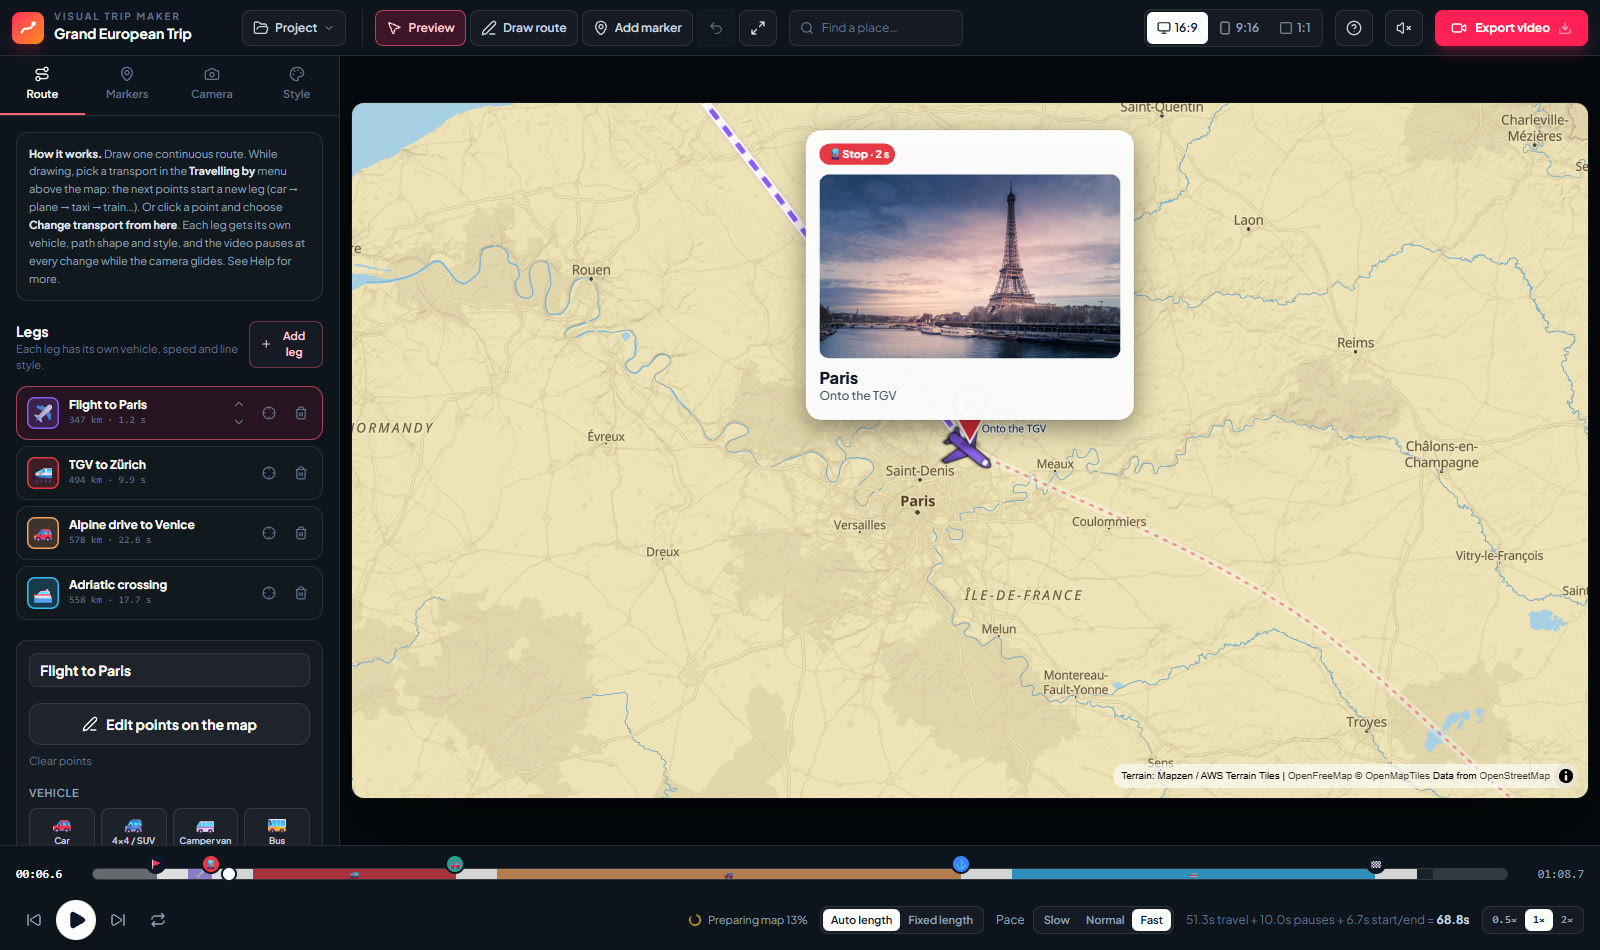
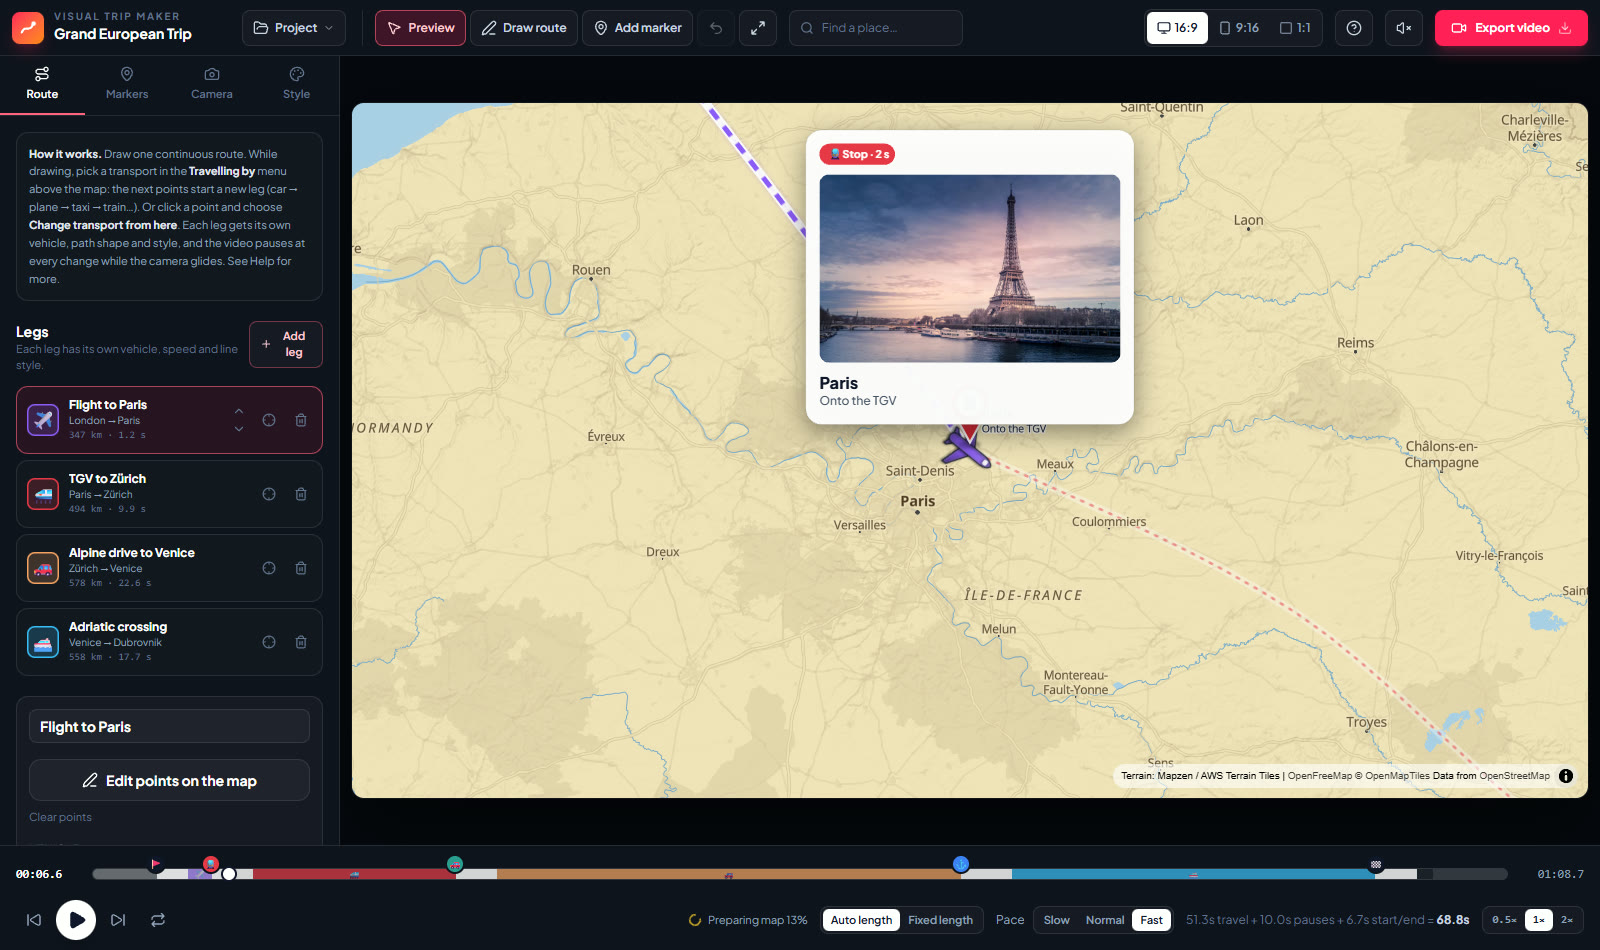
Docs: refreshed screenshots, vehicle colour screenshot

diff --git a/docs/USER_MANUAL.md b/docs/USER_MANUAL.md
@@ -113,7 +113,9 @@ At every transport change the line **pauses for a moment while the camera glides
 
 ### Edit a leg
 
-Select a leg in the Route tab to change its **Vehicle**, **Vehicle colour** (*Same as line*, a quick swatch or any colour; it paints the flat symbol and the main body of the 3D model: a car's paint, a plane's fuselage, a boat's hull, a hiker's jacket), **Path shape**, **Speed** (higher than the transport's normal speed makes the leg quicker, lower makes it slower; the leg list shows the seconds each leg takes), **Line colour**, **Width**, **Solid, dashed or dotted** style and **Glow**. Each leg in the list shows where it goes, for example *Paris → Zürich*, using the markers at its ends.
+Select a leg in the Route tab to change its **Vehicle**, **Vehicle colour** (*Same as line*, a quick swatch or any colour; it paints the flat symbol and the main body of the 3D model: a car's paint, a plane's fuselage, a boat's hull, a hiker's jacket), **Path shape**, **Speed** (higher than the transport's normal speed makes the leg quicker, lower makes it slower; the leg list shows the seconds each leg takes), **Line colour**, **Width**, **Solid, dashed or dotted** style and **Glow**. ![Leg settings with vehicle colour](screenshots/12-vehicle-colour.jpg)
+
+Each leg in the list shows where it goes, for example *Paris → Zürich*, using the markers at its ends.
 
 **Reorder the trip** with the arrows on the selected leg. Think of a leg as "travel to its destination": moving a leg changes the order in which you visit the places, and the route reconnects on the map. With stops A, B and C, moving the leg to C above the leg to B turns A → B → C into A → C → B. A leg that now starts somewhere else keeps its destination and is routed again from its new start (any extra shaping points on it are dropped). **Deleting** a leg skips that destination the same way, so the route stays connected. Dragging the point where two legs meet moves both.
 

diff --git a/README.md b/README.md
@@ -36,8 +36,8 @@ By **Geekatplay Studio** · Vladimir Chopine
 | **Map styles, terrain and symbols.** | **Vertical 9:16** for Reels, Shorts and TikTok. |
 | ![Export](docs/screenshots/08-export.jpg) | ![Flight arc](docs/screenshots/10-flight-arc.jpg) |
 | **Export** up to 4K, with optional sound. | **Shortest flight path** across the Pacific. |
-| ![Photo and description](docs/screenshots/11-photo-description.jpg) | |
-| **Photos and descriptions.** Upload and frame a photo; suggest a short description of the place in one click. | |
+| ![Photo and description](docs/screenshots/11-photo-description.jpg) | ![Vehicle colour](docs/screenshots/12-vehicle-colour.jpg) |
+| **Photos and descriptions.** Upload and frame a photo; suggest a short description of the place in one click. | **Vehicle colour** per leg, and each leg shown as *from → to*. |
 
 ## Quick start
 
